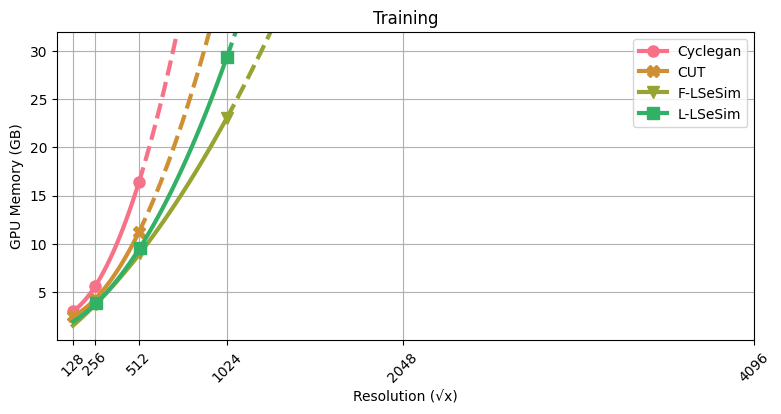
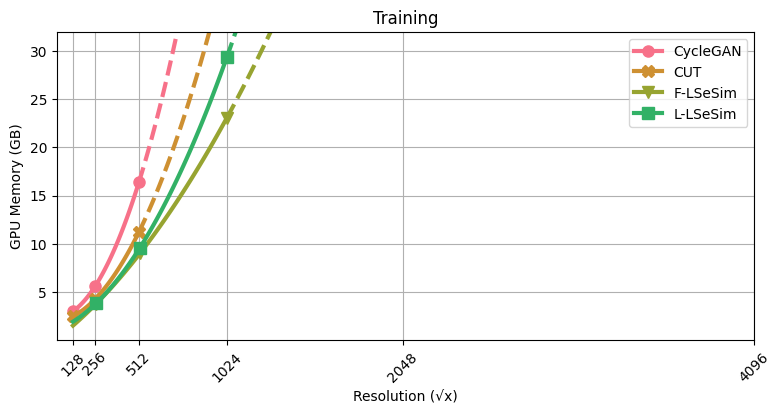
typo

Changed region(s): [[0.799, 0.087, 0.9526, 0.2899]]

diff --git a/appendix/gpu_memory.py b/appendix/gpu_memory.py
@@ -10,13 +10,13 @@ random.seed(20222022)
 if __name__ == "__main__":
     memory_dict = {
         "training": {
-            "Cyclegan": {"x": [128, 256, 512], "y": [2939, 5517, 16357]},
+            "CycleGAN": {"x": [128, 256, 512], "y": [2939, 5517, 16357]},
             "CUT": {"x": [128, 256, 512], "y": [2365, 4133, 11123]},
             "F-LSeSim": {"x": [256, 512, 1024], "y": [3585, 8813, 23023]},
             "L-LSeSim": {"x": [256, 512, 1024], "y": [3605, 9331, 29289]},
         },
         "inference": {
-            "Cyclegan": {
+            "CycleGAN": {
                 "x": [128, 256, 512, 1024, 2048],
                 "y": [1697, 1795, 2211, 3749, 12073],
             },
@@ -26,7 +26,7 @@ if __name__ == "__main__":
             },
             "F-LSeSim": {"x": [512, 1024], "y": [8571, 19269]},
             "L-LSeSim": {"x": [512, 1024], "y": [8571, 19269]},
-            "Cyclegan+KIN (ours)": {
+            "CycleGAN+KIN (ours)": {
                 "x": [128, 256, 512, 1024, 2048, 4096, 9192],
                 "y": [2307, 2307, 2307, 2307, 2307, 2307, 2307],
             },
@@ -159,4 +159,4 @@ if __name__ == "__main__":
     plt.legend()
     plt.grid()
     # plt.show()
-    plt.savefig("./inference_usage.png", bbox_inches="tight")
+    plt.savefig("./inference_usage.jpg", bbox_inches="tight")
